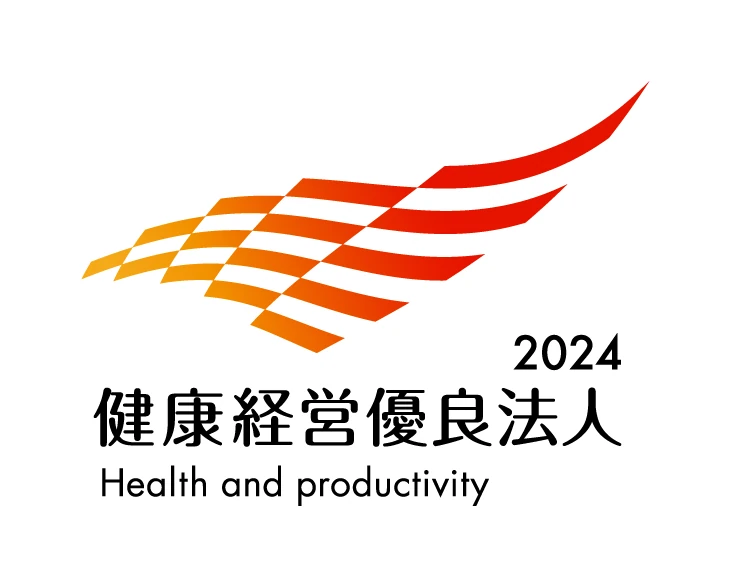
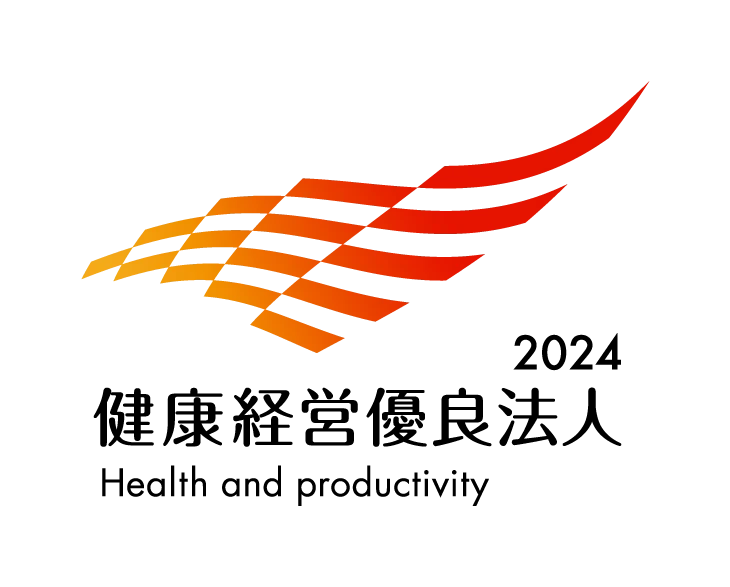
健康経営優良法人のマークの白い枠を外し、背景を透明のまま表示 (#34)
Claude-Session: https://claude.ai/code/session_01AXsdU9yr9v884NeVuHcycT

diff --git a/assets/css/site.css b/assets/css/site.css
@@ -357,7 +357,7 @@ body.menu-open { overflow: hidden; }
 .row-b { display: grid; gap: 8px; padding-top: 4px; }
 .row-t { font-weight: 700; font-size: clamp(17px, 1.8vw, 21px); letter-spacing: .04em; }
 .row-d { color: var(--ink-2); line-height: 1.85; max-width: 46em; }
-.row-mark { display: block; width: clamp(140px, 16vw, 190px); height: auto; margin-top: 16px; padding: 10px; background: #fff; border-radius: 12px; box-shadow: inset 0 0 0 .5px var(--line); }
+.row-mark { display: block; width: clamp(130px, 14vw, 170px); height: auto; margin-top: 12px; }
 .row-go { align-self: center; width: 48px; height: 48px; border-radius: 50%; display: grid; place-items: center; box-shadow: inset 0 0 0 1px var(--line); transition: background-color .3s ease, color .3s ease, transform .45s var(--ease), box-shadow .3s ease; }
 .row:active { transform: scale(.99); }
 @media (hover: hover) and (pointer: fine) {

diff --git a/CLAUDE.md b/CLAUDE.md
@@ -18,7 +18,7 @@ haki-pro.com（株式会社HAKI pro）の作り直し。旧サイトは WordPres
   「1年の流れ」は明るい背景用の `track(…, light=True)`。アプリは無いので「アプリと毎日の運動」は載せない（2026-10-26）
   離職率は「日本全体の平均 11.4%」と「健康経営優良法人 5.4%」（出典：経済産業省「健康経営の推進について」2021年10月。協会けんぽのチラシにも同じ数字）。前の 11.3% / 2.7% は出典が見つからなかったので差し替えた（2026-10-26）。メーターは 100% を満タンにした長さ。料金は「50,000円〜 / 月」の形。寄付の取り組みは `donation(pre)` で健康経営と硬式球再生の2ページに出す（2026-10-26 オーナー指示）
   文章は「。」の後で改行する（`<br />`。2026-10-26 オーナー指示）。VOICES は考えごとの吹き出し（`.voice-b`、しっぽは小さな丸2つ。斜めにしない（2026-10-26 オーナー指示））。男性は青・女性（`.voice.f`）は赤紫、下に「50代・男性　管理職」などの想定の人物
-  「認定マーク」と書いた2か所（メリット03・取り方05）に健康経営優良法人2024のマーク `kenko-mark-2024.webp`（オーナー提供。元は背景が透明なので白で塗って保存）（2026-10-26）
+  「認定マーク」と書いた2か所（メリット03・取り方05）に健康経営優良法人2024のマーク `kenko-mark-2024.webp`（オーナー提供。背景は透明のまま。白い枠は付けない）（2026-10-26）
 - トップは「宇宙をスクロールで進む」作り（2026-10-24 オーナー指示）。`section.hero-cine`（高さ 560svh）の間、画面が貼り付き、進み具合 0〜1 で場面が進む：
   バラバラの H と見出し → H が渦を巻いて集まり太陽が灯る（人が、集まる。）→ 互いのまわりを回る（力が、重なる。）→ 太陽が弾け H が四方へ・星が線に（未来へ、広がる。）→ H が戻ってロゴのマーク、文字が光の筋で浮かぶ会社ロゴ（「WELCOME TO」の文字は 2026-10-24 オーナー指示で削除）。光のにじみは光らせる物だけを別に描く方式（H は光らせない。黄色だけ光っていたため）。
   進み具合と文字の出し入れは `site.js`（`data-show="出る 消える"`、`window.__cineP`）、3D は `scene.js` の cosmos。ロゴの文字は `assets/img/wordmark-white.png`（logo-haki.png の文字部分を白く高画質にしたもの）
